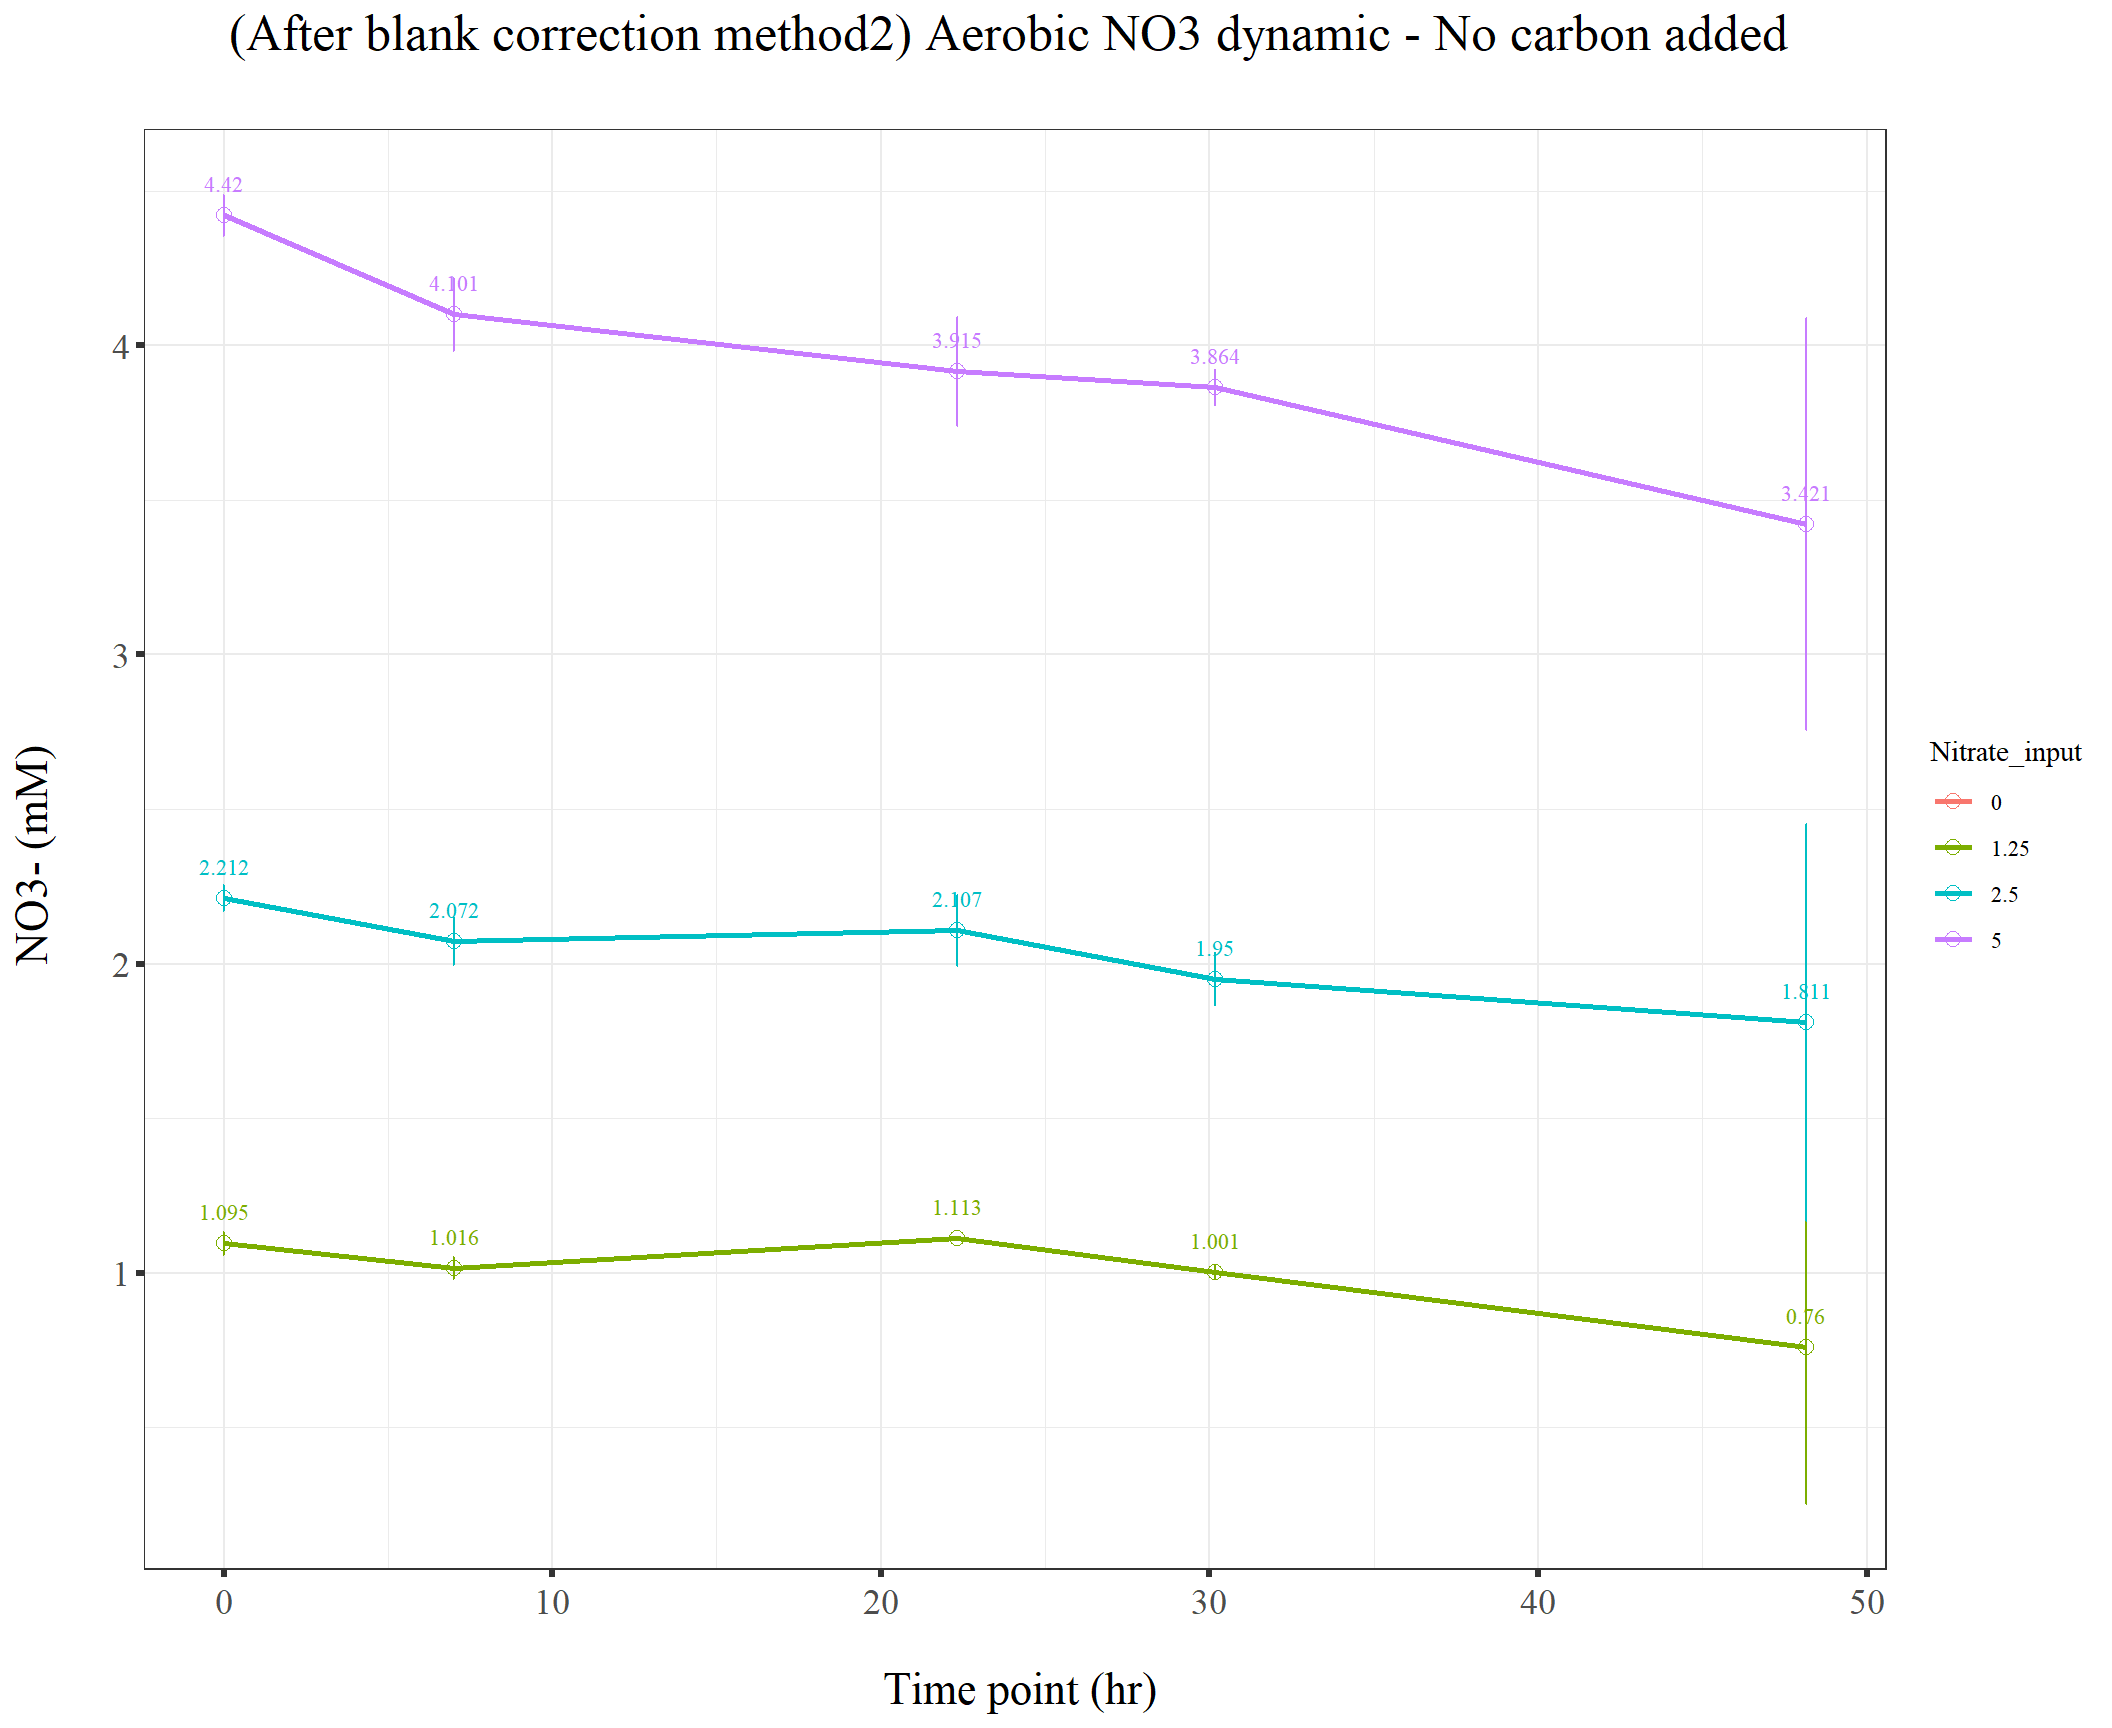
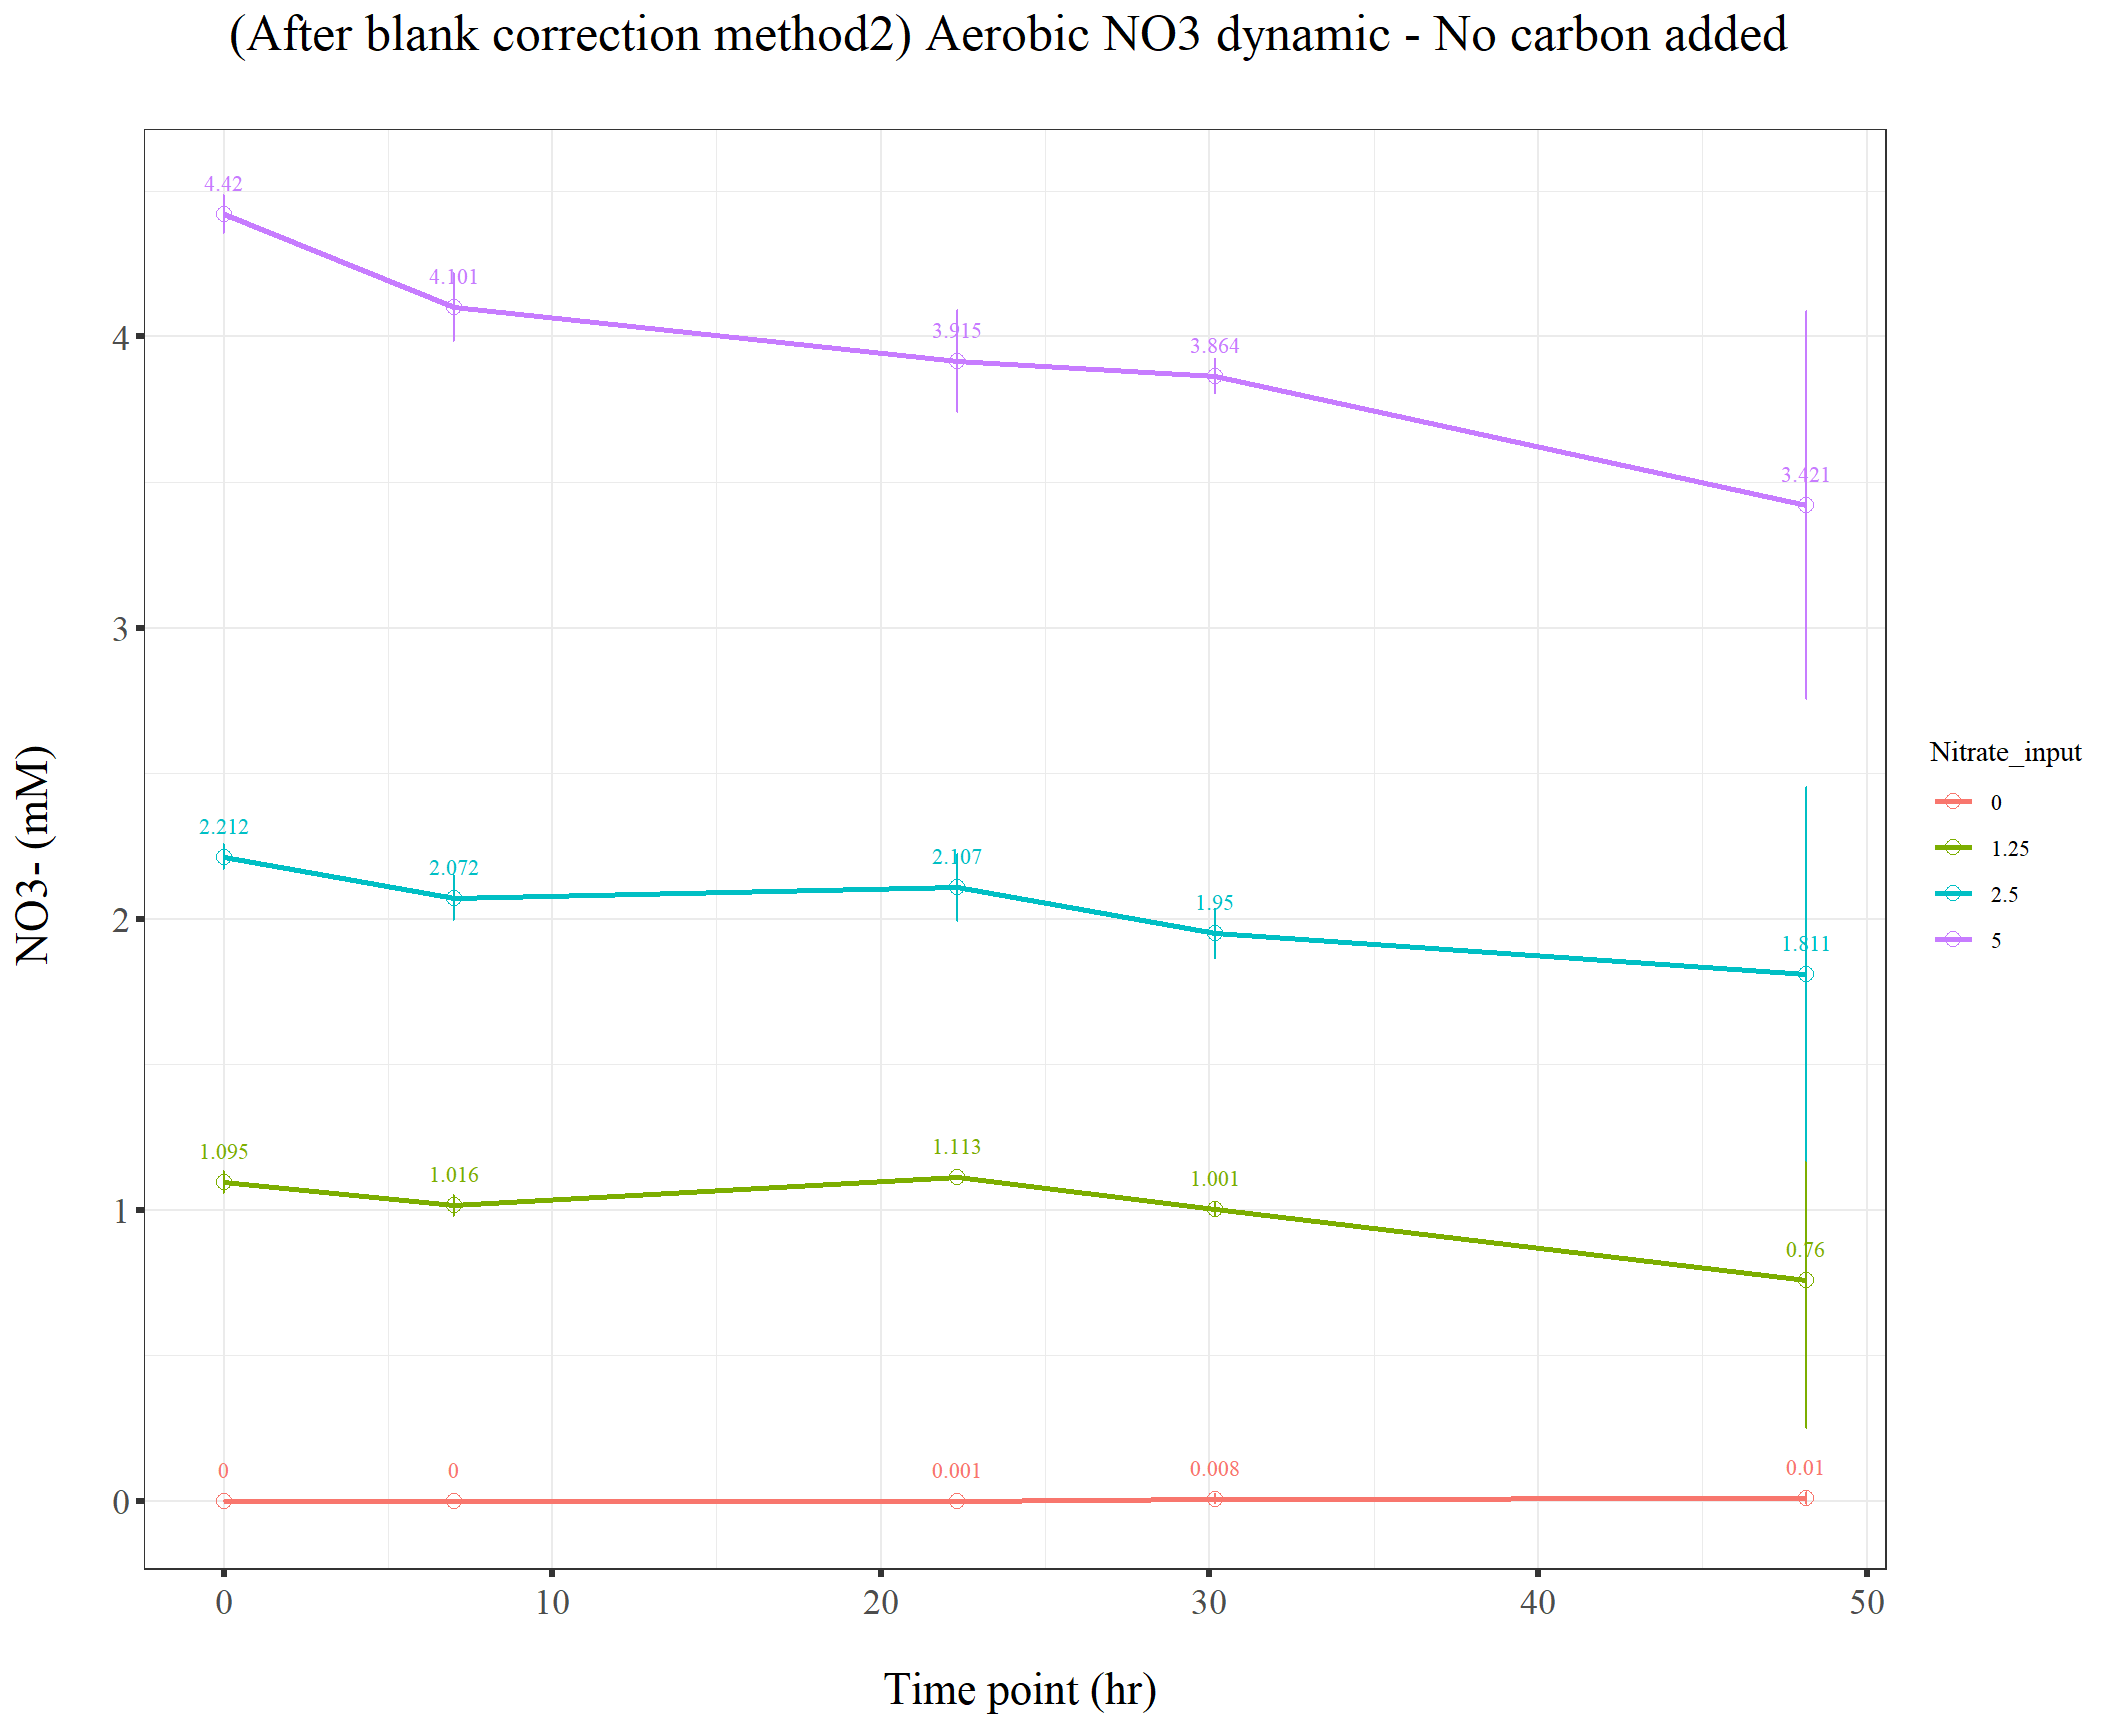
Build site.

diff --git a/docs/211028_Griess_time_series_trial2.html b/docs/211028_Griess_time_series_trial2.html
@@ -476,16 +476,16 @@ This reproducible <a href="http://rmarkdown.rstudio.com">R Markdown</a> analysis
 <div class="panel panel-default">
 <div class="panel-heading">
 <p class="panel-title">
-<a data-toggle="collapse" data-parent="#workflowr-checks" href="#strongRepositoryversionstrongahrefhttpsgithubcomKiseokUchicagoDenitvisualizationRtree65cca32991285adecf794a8b0d174313a86164bctargetblank65cca32a"> <span class="glyphicon glyphicon-ok text-success" aria-hidden="true"></span> <strong>Repository version:</strong> <a href="https://github.com/KiseokUchicago/Denit_visualization_R/tree/65cca32991285adecf794a8b0d174313a86164bc" target="_blank">65cca32</a> </a>
+<a data-toggle="collapse" data-parent="#workflowr-checks" href="#strongRepositoryversionstrongahrefhttpsgithubcomKiseokUchicagoDenitvisualizationRtree8bde5098cdac4c028ec528ffb42c4f8f3f7175d9targetblank8bde509a"> <span class="glyphicon glyphicon-ok text-success" aria-hidden="true"></span> <strong>Repository version:</strong> <a href="https://github.com/KiseokUchicago/Denit_visualization_R/tree/8bde5098cdac4c028ec528ffb42c4f8f3f7175d9" target="_blank">8bde509</a> </a>
 </p>
 </div>
[2 lines of base64/hex data omitted]
 <div class="panel-body">
 <p>
 Great! You are using Git for version control. Tracking code development and connecting the code version to the results is critical for reproducibility.
 </p>
 <p>
-The results in this page were generated with repository version <a href="https://github.com/KiseokUchicago/Denit_visualization_R/tree/65cca32991285adecf794a8b0d174313a86164bc" target="_blank">65cca32</a>. See the <em>Past versions</em> tab to see a history of the changes made to the R Markdown and HTML files.
+The results in this page were generated with repository version <a href="https://github.com/KiseokUchicago/Denit_visualization_R/tree/8bde5098cdac4c028ec528ffb42c4f8f3f7175d9" target="_blank">8bde509</a>. See the <em>Past versions</em> tab to see a history of the changes made to the R Markdown and HTML files.
 </p>
 <p>
 Note that you need to be careful to ensure that all relevant files for the analysis have been committed to Git prior to generating the results (you can use <code>wflow_publish</code> or <code>wflow_git_commit</code>). workflowr only checks the R Markdown file, but you know if there are other scripts or data files that it depends on. Below is the status of the Git repository when the results were generated:
@@ -510,7 +510,6 @@ Untracked files:
     Untracked:  Figure_211007/
     Untracked:  Figure_211008/
     Untracked:  Figure_211013/
-    Untracked:  analysis/211127_Griess_time_series_slurry_vs_liquid_culture.Rmd
     Untracked:  data/210911_TOC_sample_plate1.xlsx
     Untracked:  data/210922_Griess_sample_plate1-investigating.xlsx
     Untracked:  data/210922_Griess_sample_plate1.xlsx
@@ -601,6 +600,40 @@ Message
 </tr>
 </thead>
 <tbody>
+<tr>
+<td>
+Rmd
+</td>
+<td>
+<a href="https://github.com/KiseokUchicago/Denit_visualization_R/blob/8bde5098cdac4c028ec528ffb42c4f8f3f7175d9/analysis/211028_Griess_time_series_trial2.Rmd" target="_blank">8bde509</a>
+</td>
+<td>
+KiseokUchicago
+</td>
+<td>
+2021-11-29
+</td>
+<td>
+wflow_publish(“analysis/211028_Griess_time_series_trial2.Rmd”)
+</td>
+</tr>
+<tr>
+<td>
+html
+</td>
+<td>
+<a href="https://rawcdn.githack.com/KiseokUchicago/Denit_visualization_R/5c7ef7f33047395b30a2d6283c9513bc467e5ee6/docs/211028_Griess_time_series_trial2.html" target="_blank">5c7ef7f</a>
+</td>
+<td>
+KiseokUchicago
+</td>
+<td>
+2021-11-29
+</td>
+<td>
+Build site.
+</td>
+</tr>
 <tr>
 <td>
 Rmd
@@ -2112,6 +2145,9 @@ df_aero_blank %&lt;&gt;% mutate(Correction_factor = (Nitrate_input / Ave_NO3_mM)
 4          5      0.909   0.870   0.862   0.837   0.749</code></pre>
 <pre class="r"><code>t_aero_blank &lt;- tibble::column_to_rownames(t_aero_blank, var=&quot;Nitrate_input&quot;)
 
+is.nan.data.frame &lt;- function(x) do.call(cbind, lapply(x, is.nan))
+t_aero_blank[is.nan(t_aero_blank)] &lt;- 1
+
 cat = &quot;Aerobic&quot;
 df_aerobic_mcf &lt;- df_NO2NO3_mcf %&gt;% filter(Sample_type == &quot;Soil&quot;, Category == cat)
 
@@ -2181,6 +2217,7 @@ df_anae_blank %&lt;&gt;% mutate(Correction_factor = (Nitrate_input / Ave_NO3_mM)
 3          2.5    0.898   0.882   0.867   0.858   0.802
 4          5      0.909   0.845   0.847   0.834   0.759</code></pre>
 <pre class="r"><code>t_anae_blank &lt;- tibble::column_to_rownames(t_anae_blank, var=&quot;Nitrate_input&quot;)
+t_anae_blank[is.nan(t_anae_blank)] &lt;- 1
 
 (t_anae_Ave &lt;- pivot_wider(df_anaerobic_mcf, id_cols=Nitrate_input ,names_from = Time_point, values_from = Ave_NO3_mM))</code></pre>
 <pre><code># A tibble: 4 x 2
@@ -2219,16 +2256,6 @@ df_anae_Ave_c &lt;- pivot_longer(t_anae_Ave_c, cols=-1, names_to = &quot;Time_po
 <pre><code>Error in pivot_longer(t_anae_Ave_c, cols = -1, names_to = &quot;Time_point&quot;, : object &#39;t_anae_Ave_c&#39; not found</code></pre>
 <pre class="r"><code>df_anae_Std_c &lt;- pivot_longer(t_anae_Std_c, cols=-1, names_to = &quot;Time_point&quot;, values_to = &quot;Std_NO3_mM&quot;)</code></pre>
 <pre><code>Error in pivot_longer(t_anae_Std_c, cols = -1, names_to = &quot;Time_point&quot;, : object &#39;t_anae_Std_c&#39; not found</code></pre>
-<pre class="r"><code># set all nitrate_input to numeric
-df_anaebic_mcf$Nitrate_input &lt;- as.numeric(as.character(df_anaebic_mcf$Nitrate_input))</code></pre>
-<pre><code>Error in eval(expr, envir, enclos): object &#39;df_anaebic_mcf&#39; not found</code></pre>
-<pre class="r"><code>df_anae_Ave_c$Nitrate_input &lt;- as.numeric(as.character(df_anae_Ave_c$Nitrate_input))</code></pre>
-<pre><code>Error in eval(expr, envir, enclos): object &#39;df_anae_Ave_c&#39; not found</code></pre>
-<pre class="r"><code>df_anae_Std_c$Nitrate_input &lt;- as.numeric(as.character(df_anae_Std_c$Nitrate_input))</code></pre>
-<pre><code>Error in eval(expr, envir, enclos): object &#39;df_anae_Std_c&#39; not found</code></pre>
-<pre class="r"><code># join
-df_anaebic_bcf &lt;- df_anaebic_mcf %&gt;% select(-Ave_NO2_mM, -Ave_NO3_mM, -Std_NO2_mM, -Std_NO3_mM) %&gt;% left_join(df_anae_Ave_c, by=c(&quot;Nitrate_input&quot;=&quot;Nitrate_input&quot;,&quot;Time_point&quot;=&quot;Time_point&quot;)) %&gt;% left_join(df_anae_Std_c, by=c(&quot;Nitrate_input&quot;=&quot;Nitrate_input&quot;,&quot;Time_point&quot;=&quot;Time_point&quot;)) </code></pre>
-<pre><code>Error in select(., -Ave_NO2_mM, -Ave_NO3_mM, -Std_NO2_mM, -Std_NO3_mM): object &#39;df_anaebic_mcf&#39; not found</code></pre>
 <pre class="r"><code># create a function
 
 multiply_blank_correction &lt;- function(df_aero_b, mcf_file){
@@ -2239,6 +2266,7 @@ multiply_blank_correction &lt;- function(df_aero_b, mcf_file){
   
   (t_aero_blank &lt;- pivot_wider(df_aero_blank, id_cols=Nitrate_input ,names_from = Time_point, values_from = Correction_factor))
   t_aero_blank &lt;- tibble::column_to_rownames(t_aero_blank, var=&quot;Nitrate_input&quot;)
+  t_aero_blank[is.nan(t_aero_blank)] &lt;- 1
   
   (t_aero_Ave &lt;- pivot_wider(mcf_file, id_cols=Nitrate_input ,names_from = Time_point, values_from = Ave_NO3_mM))
   t_aero_Ave &lt;- tibble::column_to_rownames(t_aero_Ave, var=&quot;Nitrate_input&quot;)
